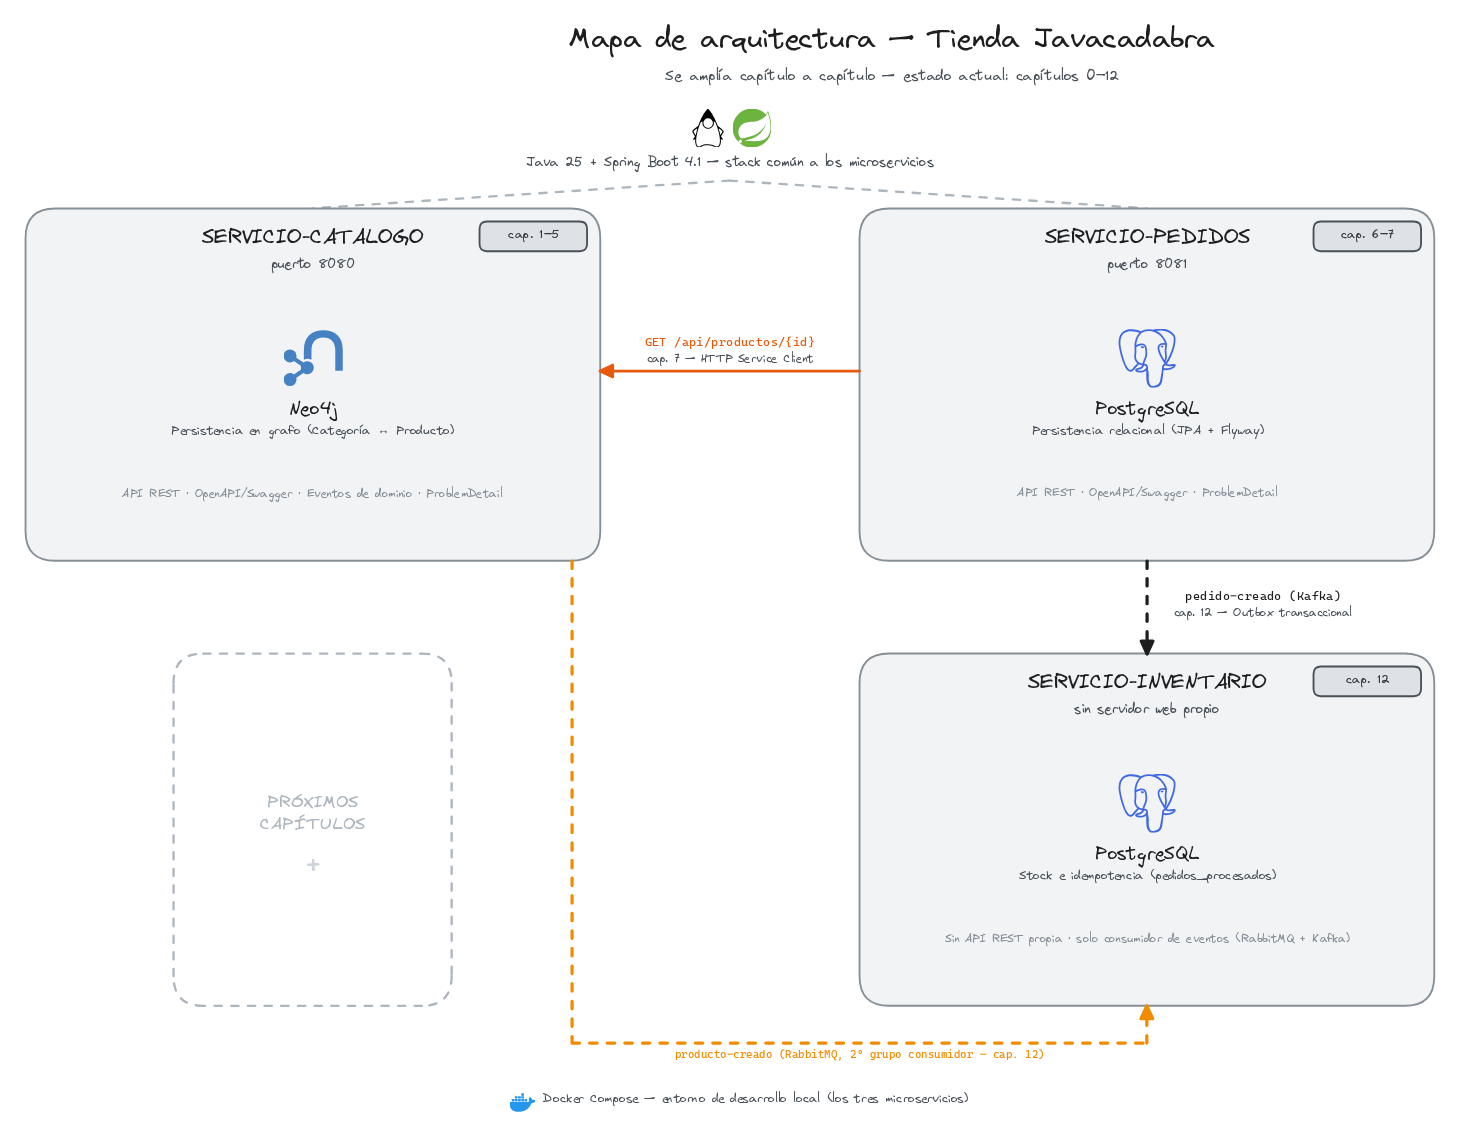
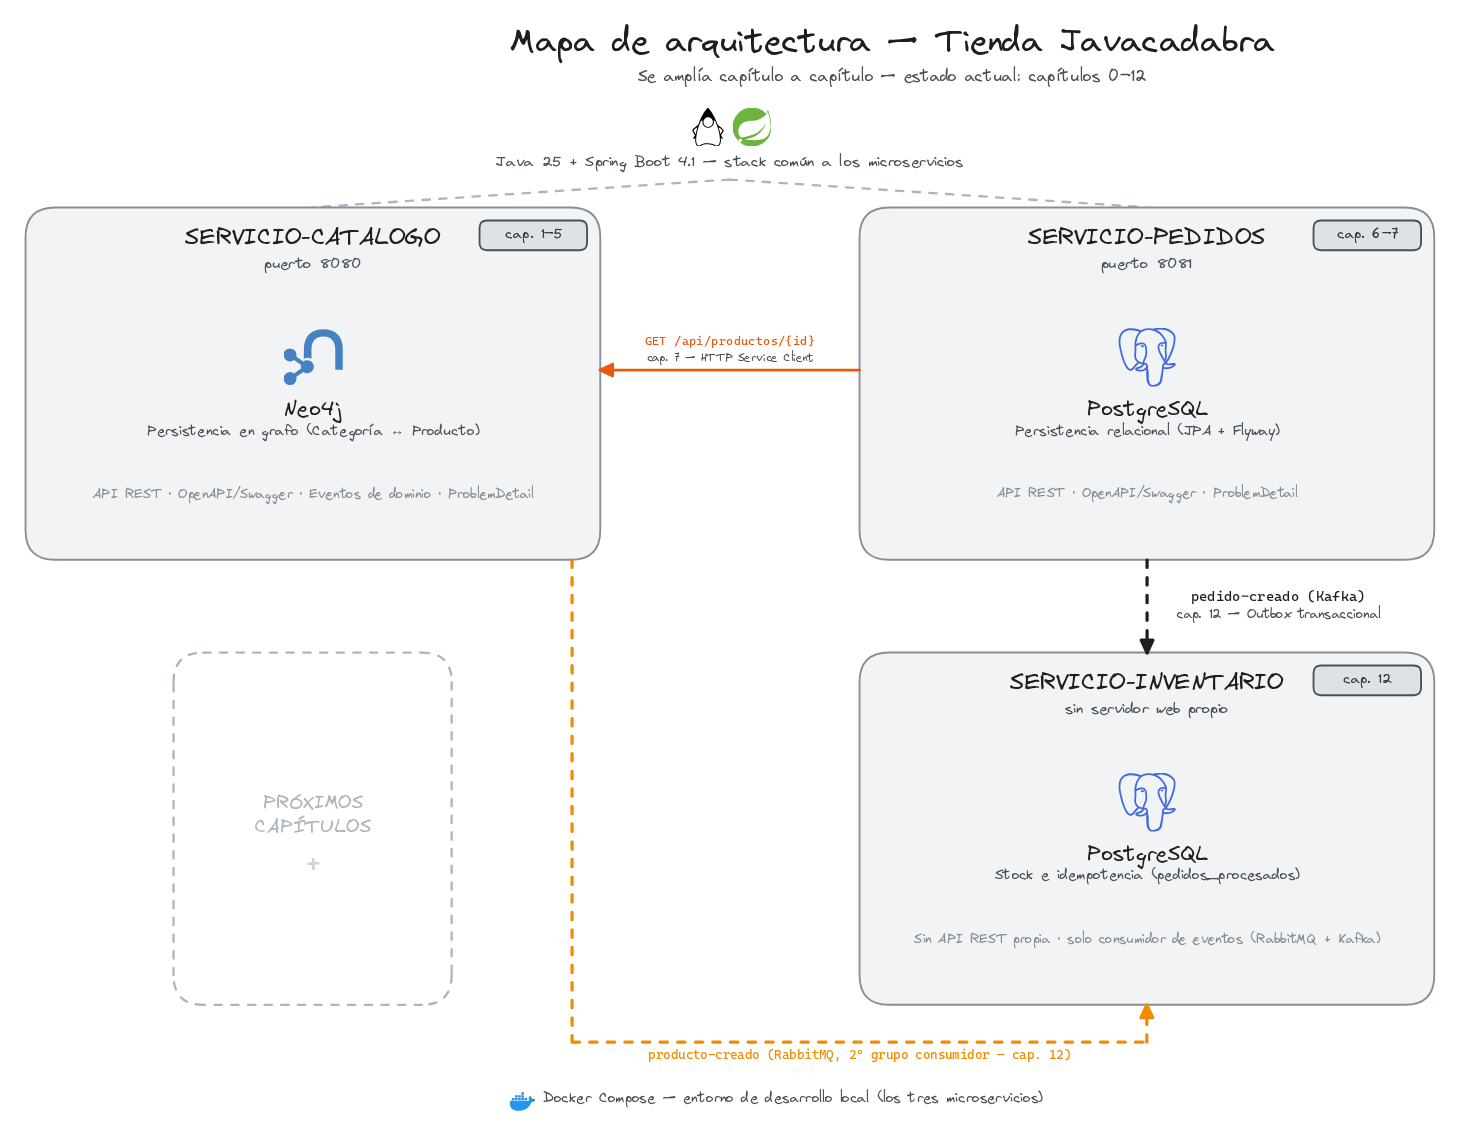
Aumenta el tamaño de fuente del mapa de arquitectura y corrige el driver de PostgreSQL en la tabla de dependencias
Los textos del diagrama se veían pequeños en el ancho fijo de página de
GitHub sin hacer zoom; se sube el fontSize de cada elemento (~15-20%)
ajustando anchos donde hacía falta para evitar solapes o recortes. Se
mantiene sin cambios la etiqueta GET /api/productos/{id}, que ocupa ya
todo el hueco fijo de 280px entre servicio-catalogo y servicio-pedidos.

De paso, la tabla de dependencias solo listaba PostgreSQL JDBC driver
para servicio-pedidos, sin servicio-inventario (que también es JPA +
PostgreSQL).

diff --git a/README.md b/README.md
@@ -71,7 +71,7 @@ Versiones sin propiedad propia: las resuelve el BOM de `spring-boot-starter-pare
 | [Spring Data JPA](../../tree/capitulo-06-servicio-pedidos) | 4.1.0 | Persistencia relacional (`servicio-pedidos`, `servicio-inventario`) |
 | [Flyway](../../tree/capitulo-06-servicio-pedidos) | 12.4.0 | Migraciones de esquema (`servicio-pedidos`, `servicio-inventario`) |
 | [Spring Cloud Stream](../../tree/capitulo-12-outbox-transaccional) | 5.0.2 | Mensajería asíncrona, binders RabbitMQ y Kafka intercambiables/combinables por *binding* |
-| PostgreSQL JDBC driver | 42.7.11 | Driver de conexión (`servicio-pedidos`) |
+| PostgreSQL JDBC driver | 42.7.11 | Driver de conexión (`servicio-pedidos`, `servicio-inventario`) |
 | Docker Compose | — | Entorno de desarrollo local |
 
 Ver [CLAUDE.md](CLAUDE.md) para la guía completa de convenciones (idioma, arquitectura, modelo de ramas).